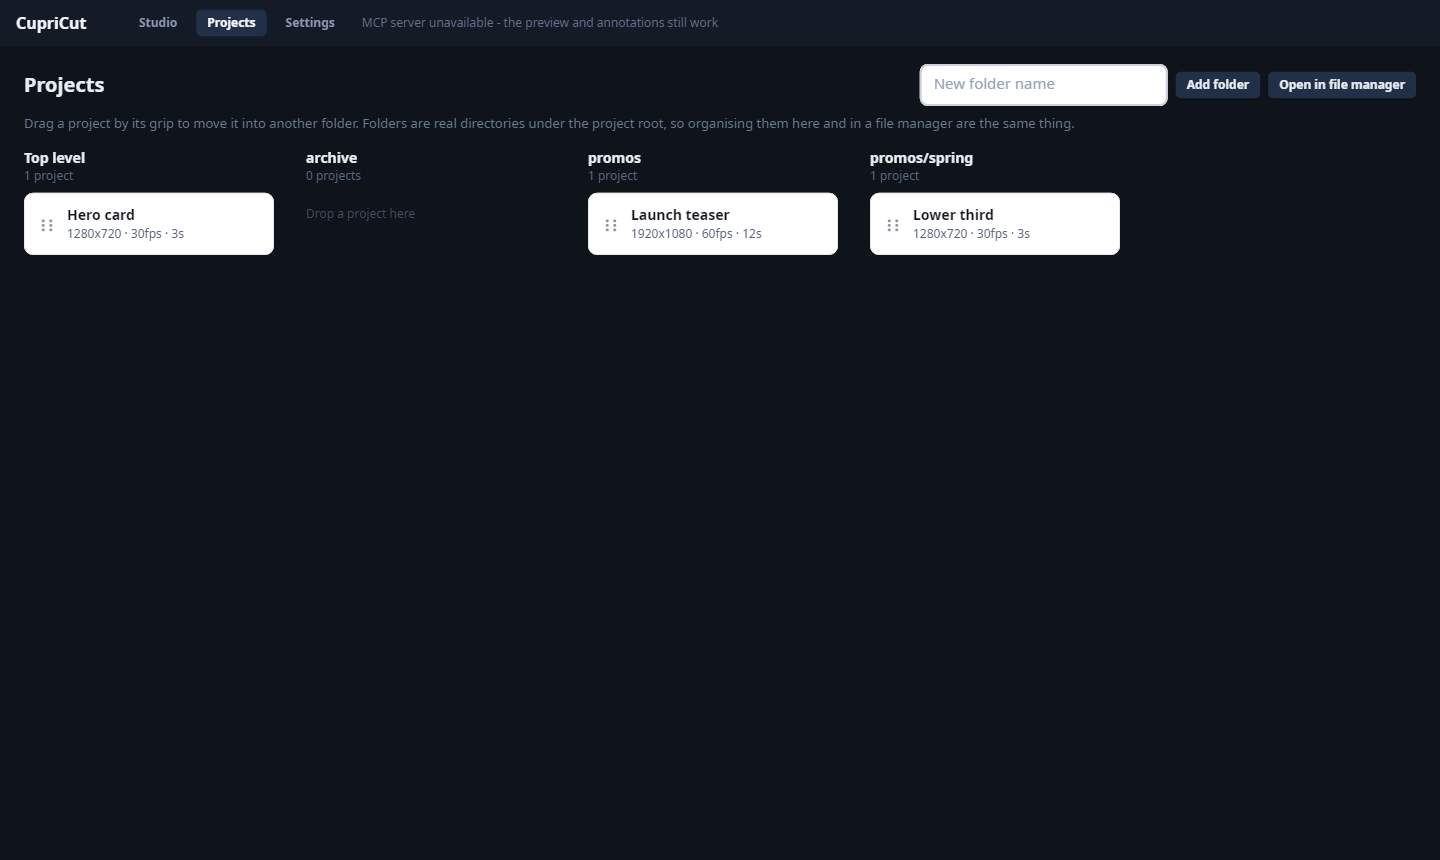
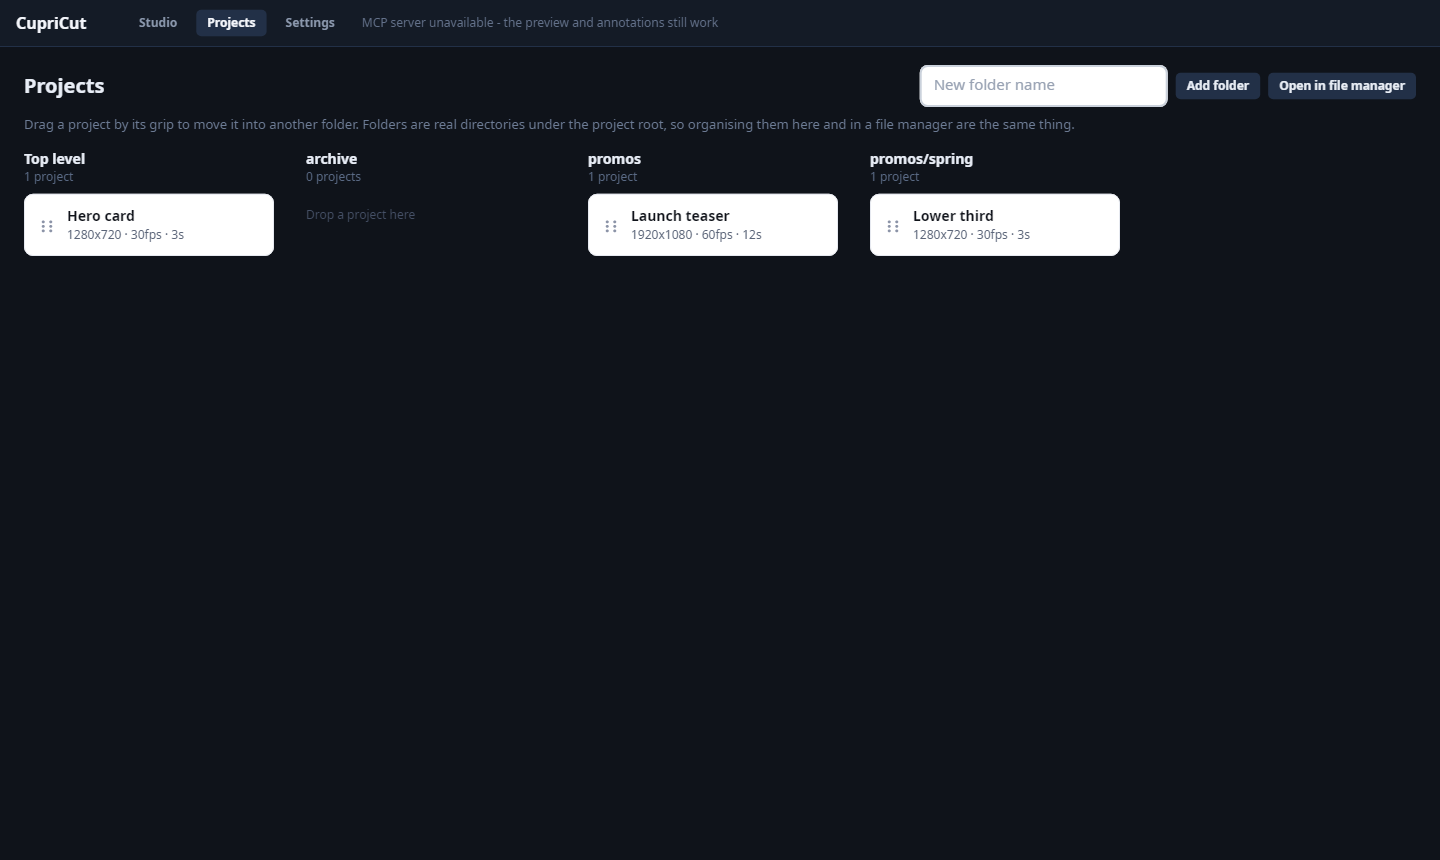
CupriFace 0.25.0, and one bug that explains four mysteries
0.25.0 landed today. It resolves per-side borders - border-left, -right,
-bottom and the longhands - which were previously discarded with CF0050.
The studio window has carried three of those declarations since it was
written, so its rail edges and header underline have never been drawn.
They are drawn now, and take a pixel of width each, which is what the
release notes warn about. Nothing else moved: 265 tests pass and the
regenerated screenshots differ only by those lines.

Then, since there was a new version to test against, the open engine
questions were re-run - and one of them turned out to be the cause of the
other three.

line-height is applied as a downward OFFSET rather than as a line box the
glyph is centred within. Six lines to reproduce: a 120px box with
line-height:120px draws its text entirely below itself, outside the box. A
browser centres it.

That single behaviour explains every layout problem the sample
compositions hit last week, and two of the conclusions drawn from them
were WRONG:

- overflow:hidden was never broken. The odometer's digits were each a full
  cell below the window meant to show them, so the window looked as though
  it clipped nothing, or everything. An odometer should work once
  line-height does.
- A box with an explicit height and a matching line-height rendering empty
  was the same thing, not a separate fault.

The plan's "Engine behaviour to pin down" section is rewritten
[…]

diff --git a/Gui/StudioApp.cs b/Gui/StudioApp.cs
@@ -19,7 +19,7 @@ namespace CupriCut.Gui;
 /// <para>Three engine bugs were routed around while this was written — Wixely/CupriFace#161
 /// (<c>align-items:center</c> did nothing to an auto-width item in a column flex container), #162
 /// (percentage <c>border-radius</c> painted a square) and #163 (multi-value <c>border-radius</c>
-/// was dropped entirely). All three are <b>fixed in CupriFace 0.24.1</b>, which this depends on.
+/// was dropped entirely). All three are <b>fixed in CupriFace 0.24.1</b>.
 /// The workarounds are gone from the markup; the layout still flexes rather than using fixed
 /// columns, which was always the better shape and is unrelated to those bugs.</para>
 /// </summary>

diff --git a/tests/CupriCut.Tests/StudioTests.cs b/tests/CupriCut.Tests/StudioTests.cs
@@ -123,7 +123,7 @@ public sealed class StudioTests
                 OutputRootPath = @"C:\CupriCut\output",
                 FfmpegPath = "ffmpeg",
                 WorkersSetting = "6 (built-in guess; calibrate to measure this machine)",
-                EngineVersion = "CupriFace 0.24.1.0",
+                EngineVersion = "CupriFace 0.25.0.0",
                 RecommendedWorkers = 8,
                 ShowAllChecks = true,
                 CalibrationSummary = "1 of 19 checks failed (3109 ms).",

diff --git a/PLAN.md b/PLAN.md
@@ -366,14 +366,40 @@ None is confirmed as a bug: each is a case where the engine differs from a brows
 first guess about the cause was wrong, so each wants an isolated reproduction before it is filed.
 The rule this repository already follows applies — measure it, then claim it.
 
+**`line-height` is a downward offset, not a line box.** Isolated on CupriFace 0.25.0, and it is one
+bug rather than the four separate mysteries this section used to list:
+
+| box | browser | engine |
+|---|---|---|
+| no `line-height` | text at the top | text at the top — correct |
+| `line-height: 120px` on a 120px box | one line, vertically centred | text drawn **entirely below the box**, outside it |
+| `line-height: 48px`, `font-size: 48px` | text at the top | text pushed down ~48px |
+
+The value is added to the text's position instead of defining a box the glyph is centred within. It
+explains every layout problem the samples hit, and the conclusions drawn from them were wrong:
+
+- Text pushed down by a line-height pushed everything after it off the frame — the title card lost
+  its last three elements this way.
+- The odometer's digits were each a full cell BELOW the window meant to show them, so the window
+  looked as though it was clipping nothing, or clipping everything. **`overflow: hidden` was never
+  broken**; the text simply was not where it was supposed to be. An odometer should work once this
+  does.
+- A box with an explicit height and a matching line-height rendered as an empty rectangle.
+
+Worth filing: it is reproducible in six lines, silently ruins vertical rhythm, and the workaround
+(never set `line-height`) is not one anybody would guess.
+
+Still open, and genuinely not understood:
+
 | what happened | what is not yet known |
 |---|---|
-| `overflow: hidden` did not clip a child carrying a `transform`, and clipped a plain oversized child to nothing | Whether the clip is computed before the transform, whether it is the nesting, or whether the descendant selector in the test never applied. An odometer (a 0–9 column sliding inside a window) is the obvious use and does not work. |
-| `position: absolute` children inside a nested positioned box landed outside their container | Isolated probes of `position:relative` + `align-items` behaved correctly, so the cause is something else in the real composition rather than the pattern itself. |
-| Setting `line-height` made text boxes much taller than the value given | Whether line-height adds to the content height rather than replacing it. The two samples that were here first set none, which is why they always rendered correctly. |
-| `align-items: center` centred correctly in isolation, but spread a flex item's children across the full height when a full-height `position:absolute` sibling shared the flex line | Whether an absolutely positioned child is still participating as a flex item. |
-| `align-self: center` and `margin: auto` do not centre a flex item | Probably simply unsupported; `align-items` on the parent does work and is the answer. |
-| `border-left` / `border-right` / `border-bottom` and `letter-spacing` are silently ignored | Reported by CupriDoctor as CF0050. Some separators in the studio window have therefore never been drawn. |
+| `align-items: center` centred correctly in isolation, but spread a flex item's children across the full height when a full-height `position:absolute` sibling shared the flex line | Whether an absolutely positioned child is still participating as a flex item. Possibly also a line-height artefact — it has not been re-tested since that was isolated. |
+| `position: absolute` children inside a nested positioned box landed outside their container | Isolated probes behaved correctly, so the cause is something else in the real composition. Same caveat. |
+| `align-self: center` and `margin: auto` do not centre a flex item | Probably simply unsupported; `align-items` on the parent works and is the answer. |
+| `letter-spacing` is silently ignored | CF0050. Still the case on 0.25.0. |
+
+~~`border-left` / `border-right` / `border-bottom` are ignored~~ — **fixed in CupriFace 0.25.0.** The
+studio's three separators, which had never been drawn, now are.
 
 ## Decided — do not re-open
 

diff --git a/README.md b/README.md
@@ -322,7 +322,7 @@ the attribute perfectly, but a CSS attribute selector on it matches nothing and 
 An inline `display:none` works, and beats an author's own `display` rule — which is what makes it
 safe to apply to markup CupriCut did not write.
 
-Built on **CupriFace 0.24.1**. The GUI is itself a `CupriApp` — CupriCut's interface is drawn by the
+Built on **CupriFace 0.25.0**. The GUI is itself a `CupriApp` — CupriCut's interface is drawn by the
 engine CupriCut renders with.
 That is why it was cheap: the preview is an `ISurfaceSource`, the seam the engine already has for
 live pixel producers, so it costs no PNG encode; and the region drag is `OnPointer`, the same one a
